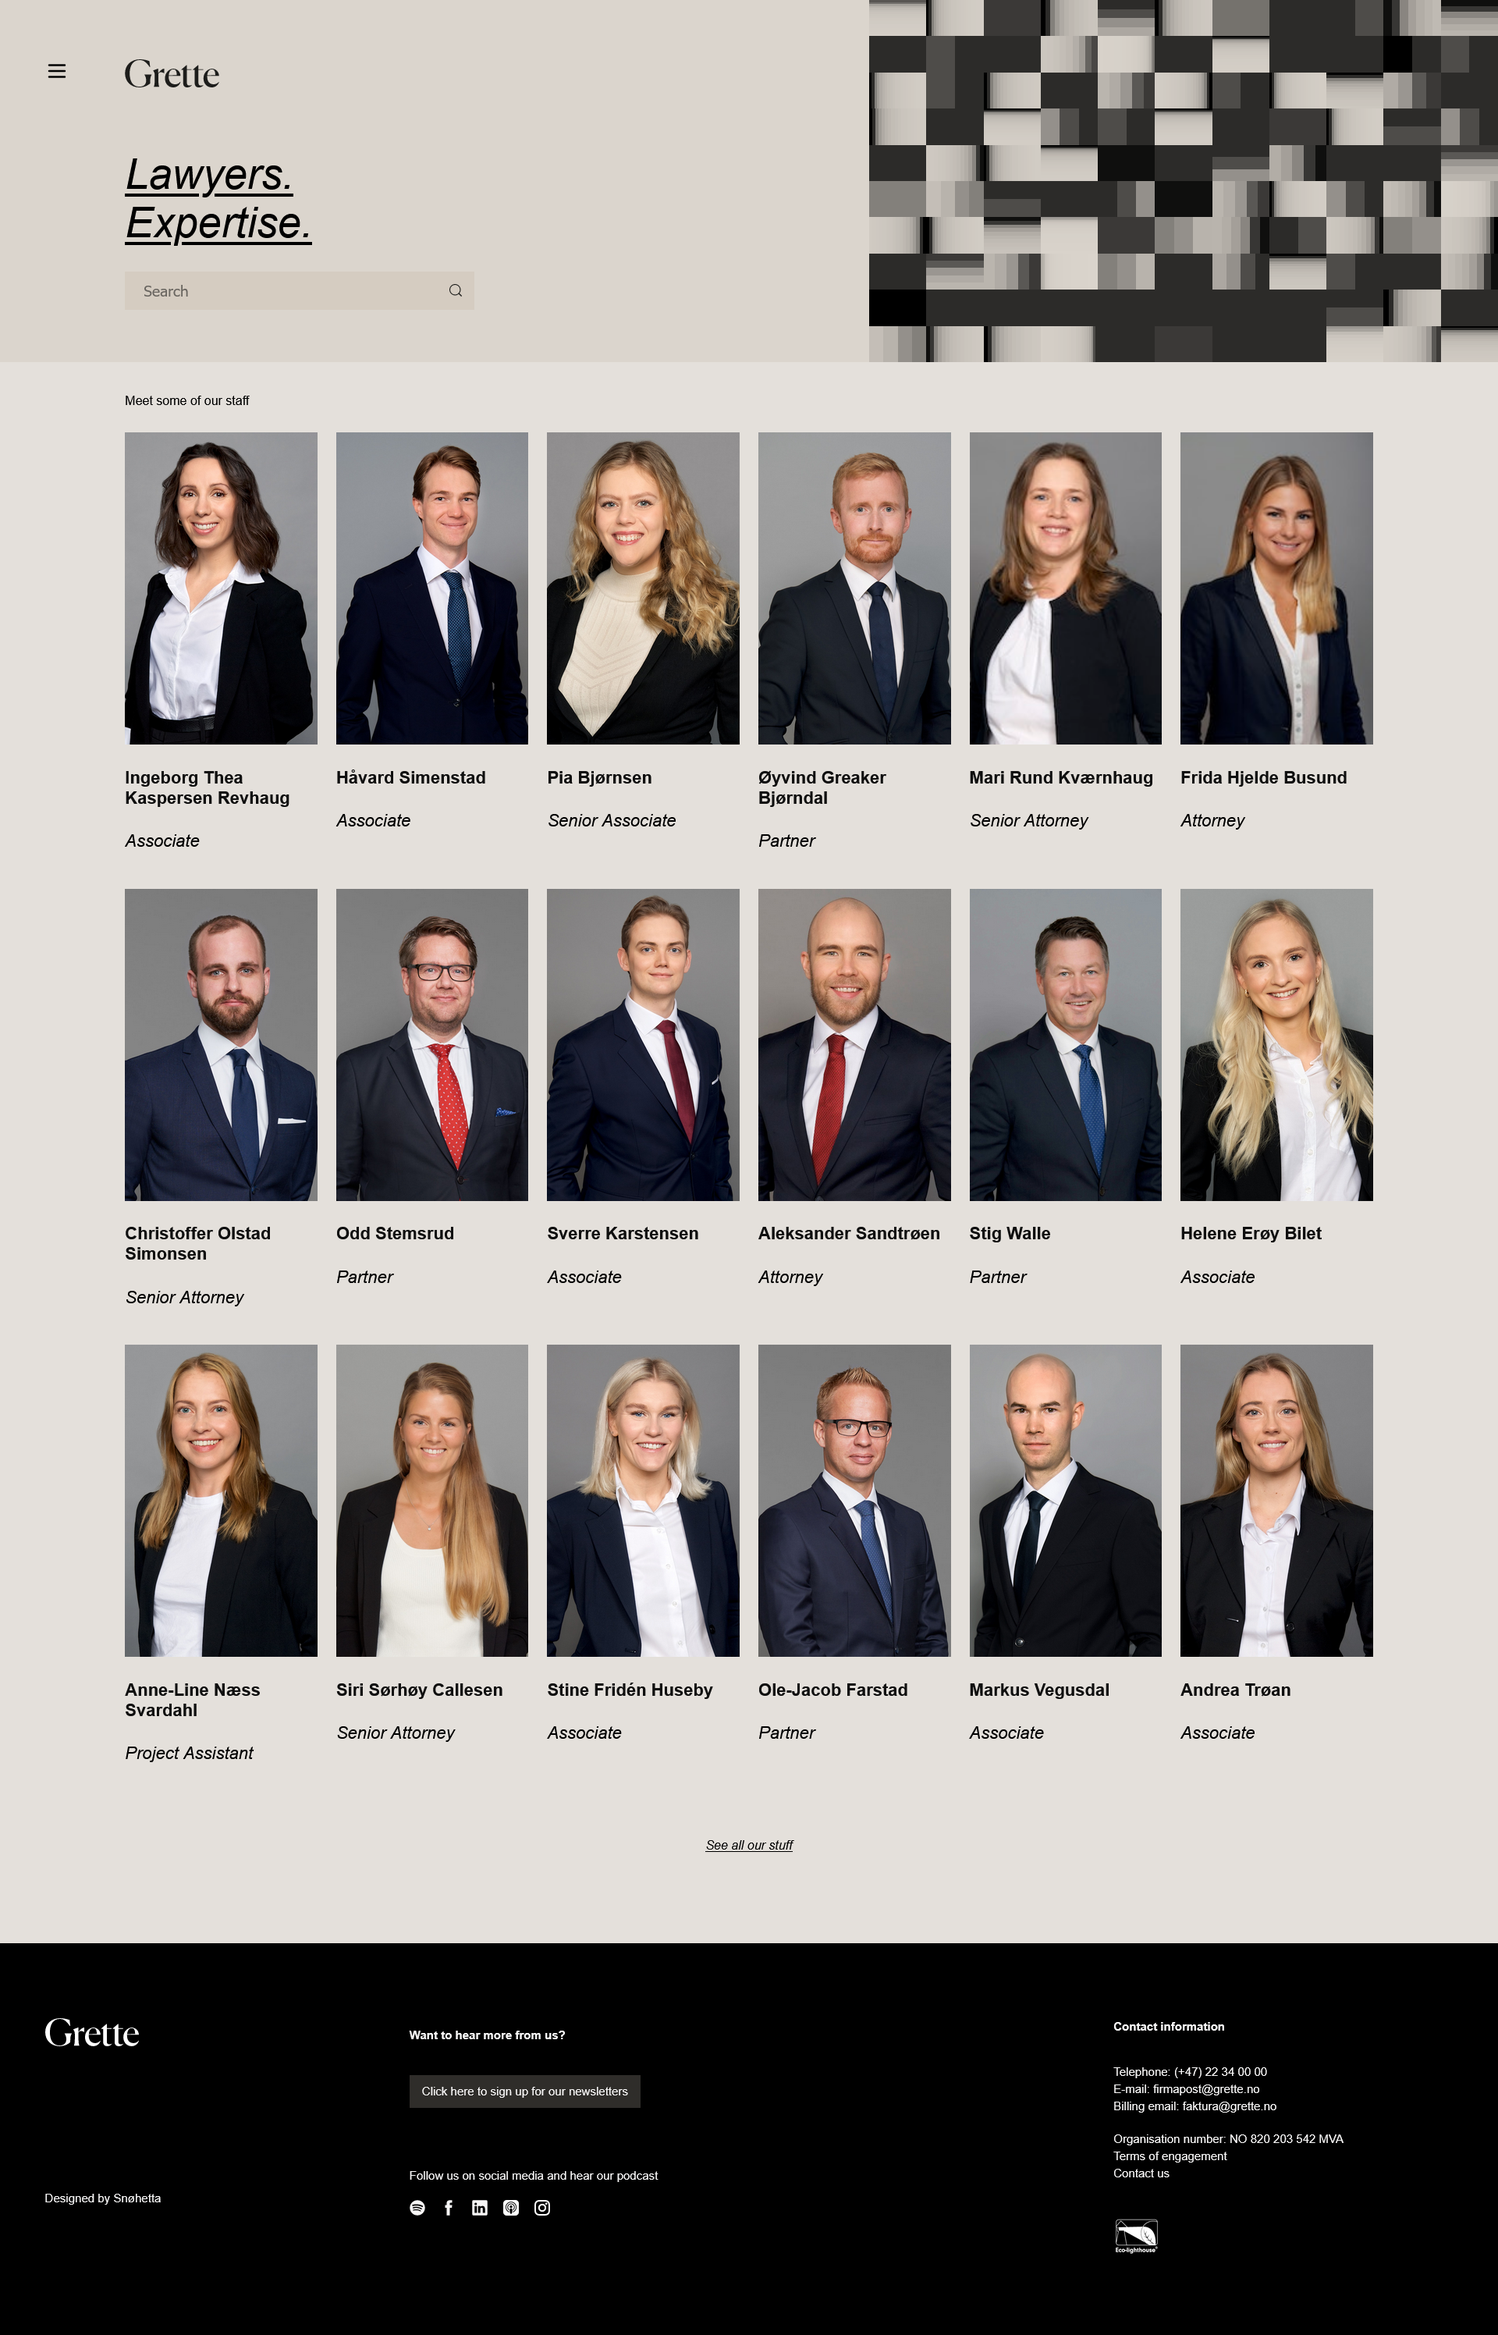
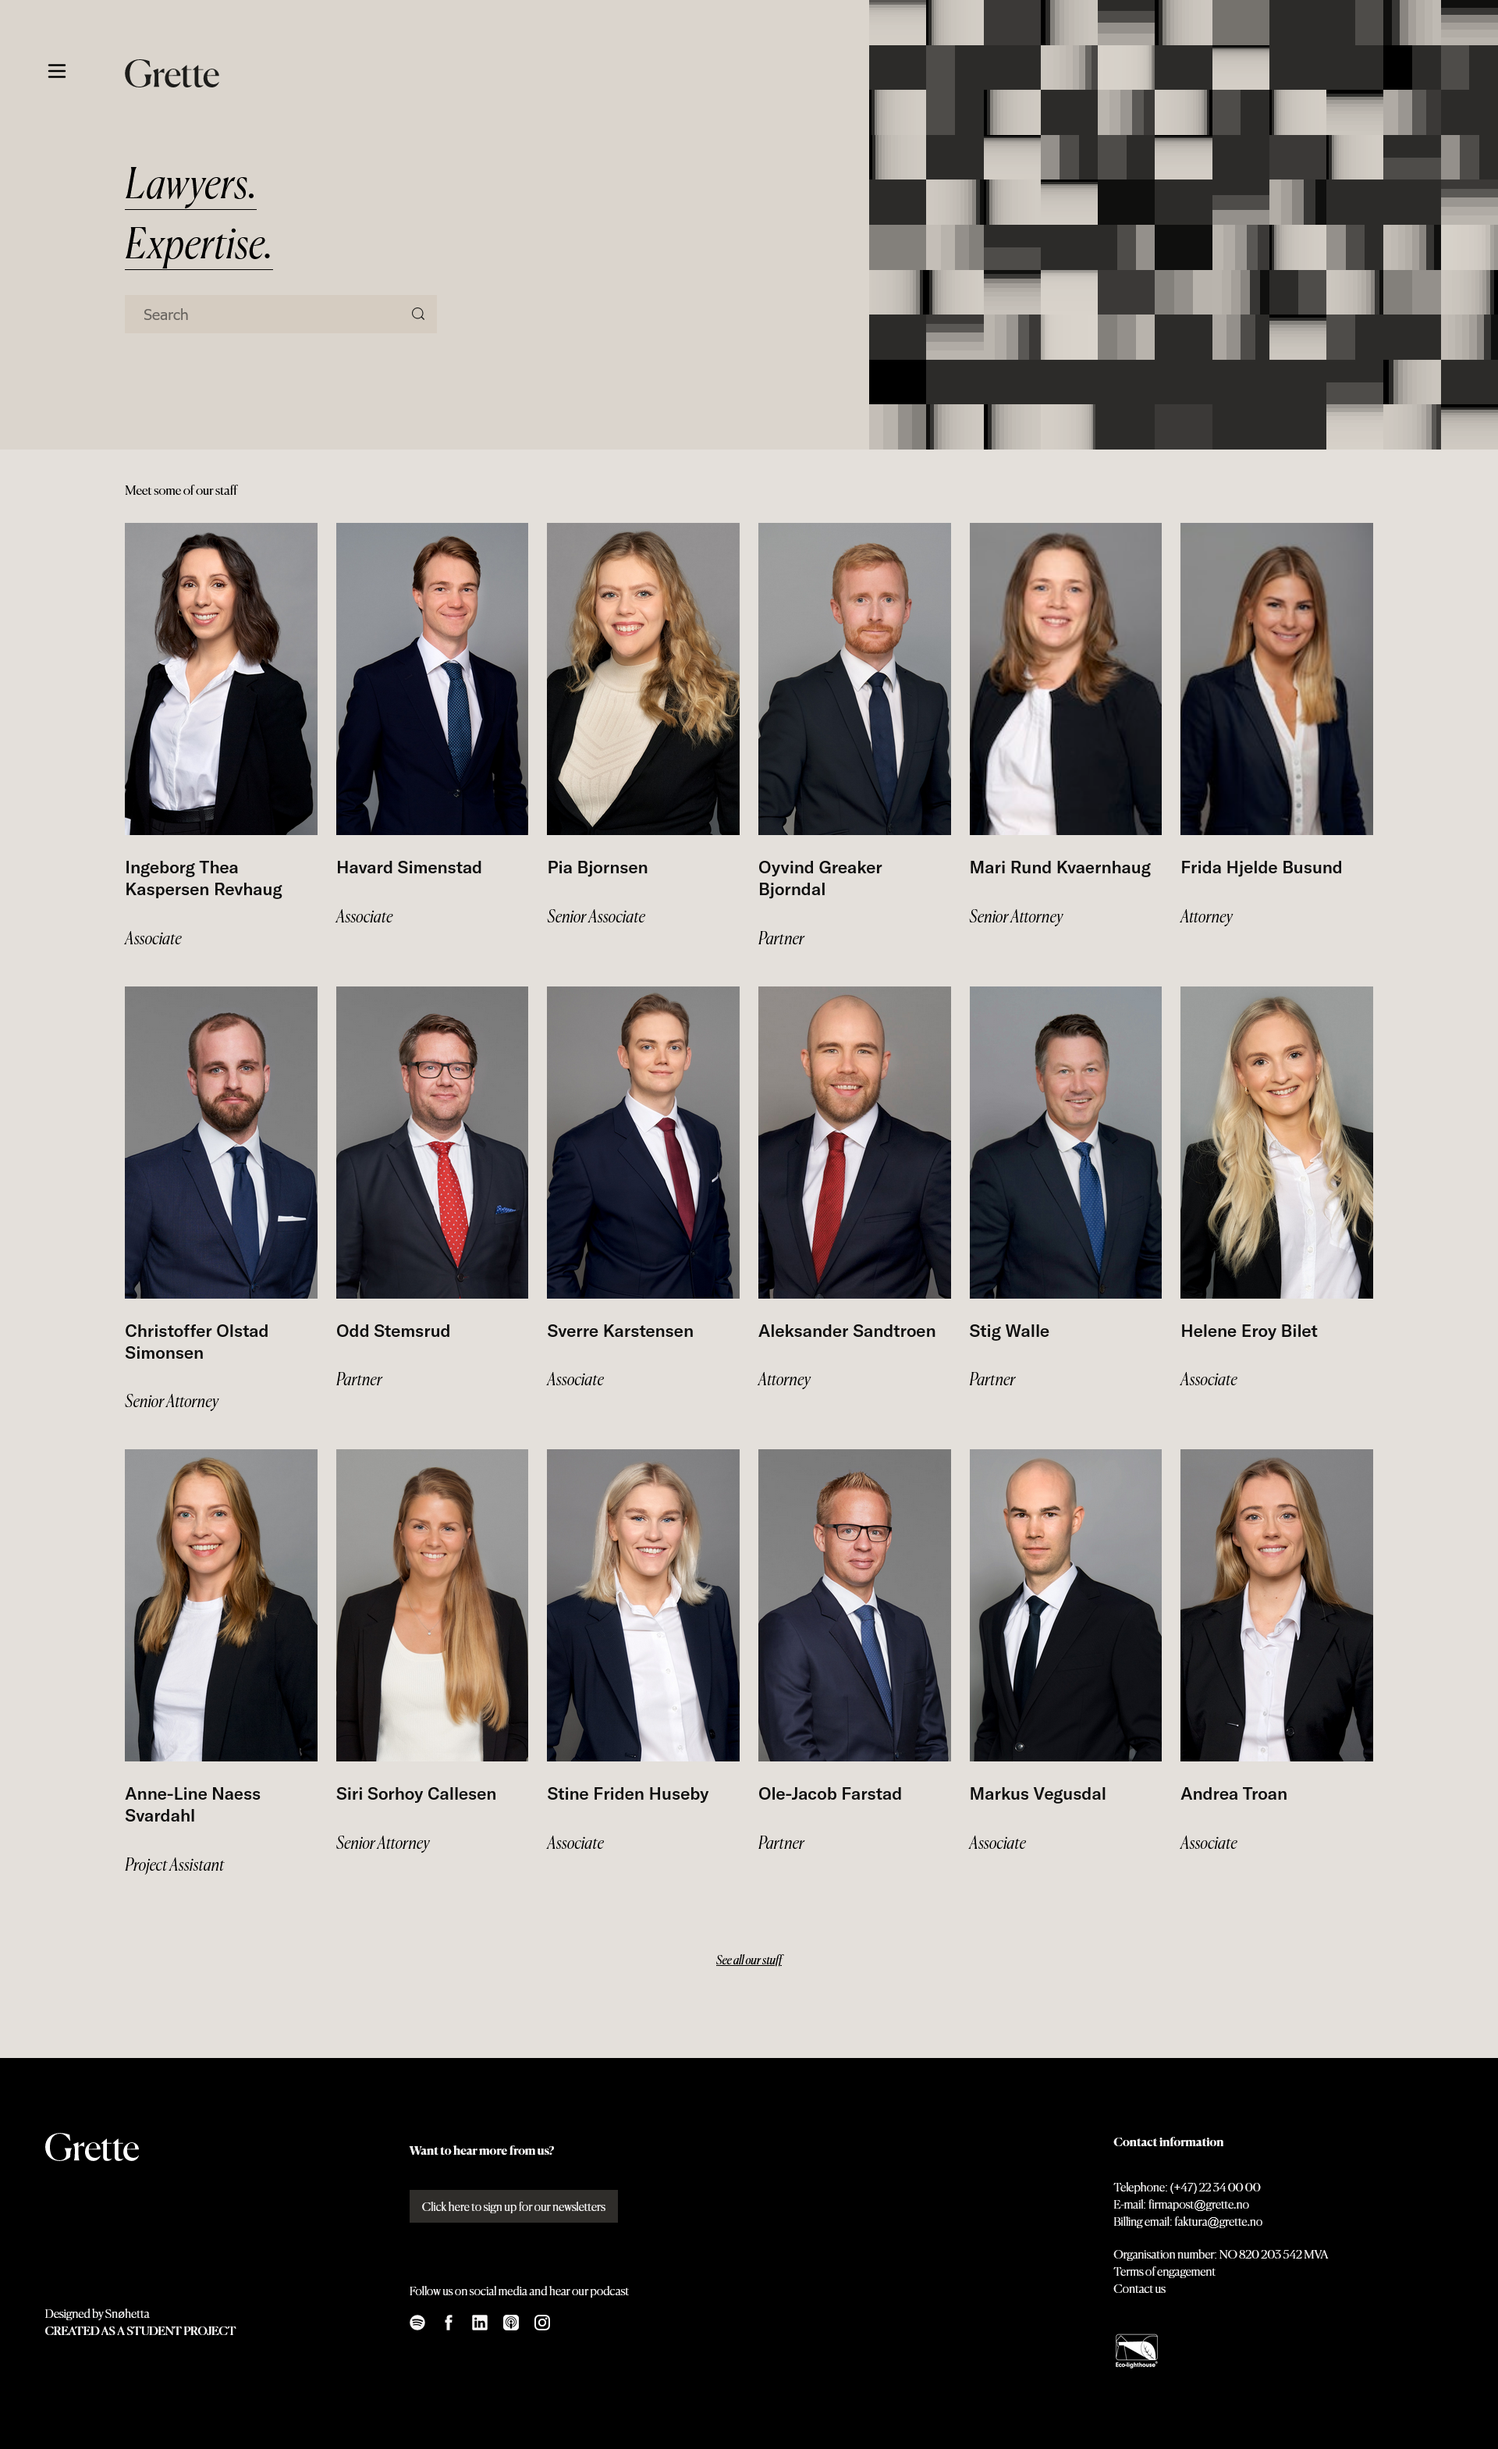
[docs] @via #b Přidat dokumentaci aktuálního stavu projektu

diff --git a/README.md b/README.md
@@ -1,7 +1,16 @@
-# Připravil jsem homepage dle zadání
+# HP + Navigace + 1 podstránka
+- Dle zadání je web responzivní včetně navigace
+- Jedná se o studentský projekt, jak je uvedeno i v patičce webu
 
-- Jednoduchá reponzivita je řešena, předně pro výpis a pro patičku, u hlavičky by bylo nutné upravit pozicování loga a wrapnout to do containeru, který by se následně přichitil fixně v rámci mobilního zobrazení.
-- Font jsem použil Yrsa, který se mi zdál nejpodobnější a je zdarma. Originální web používá placený font.
-  - Zde je patrné, že největší rozdíl u fontu je na úrovni italicu, ten se liší vskutku znatelně, myslím ale, že to v rámci kontextu webu není vyloženě na škodu (_z grafického hlediska_), pouze to není tak podobné originálu.
-
+## Homepage
 ![Screen](.docs/screen.png)
+
+## Navigace
+- Navigace včetně dynamické podnabídky
+
+![Screen](.docs/navigation.png)
+
+## 1 Podstránka
+- Proklik na podstránku je přes jakéhokoliv zaměstnance na HP
+
+![Screen](.docs/employee.png)
